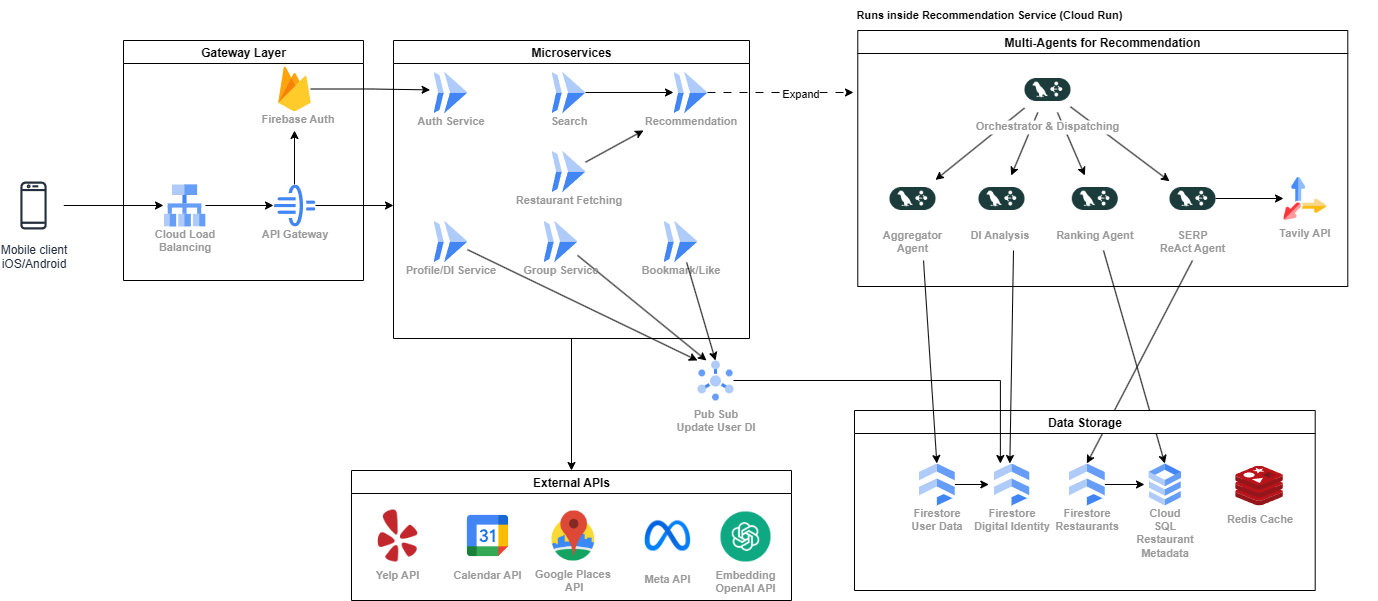
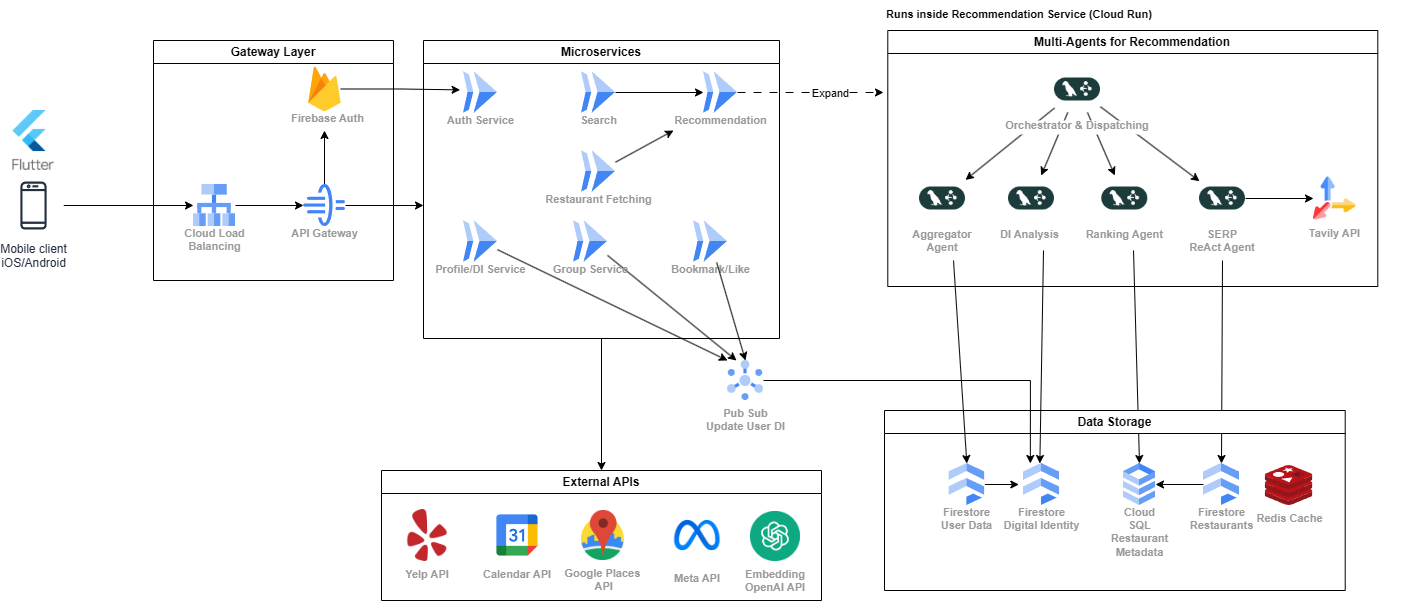
add 16-20 adr and update architecture diagram

diff --git a/architecture/adrs/adr-016_replacing_google_places_nearby_search.md b/architecture/adrs/adr-016_replacing_google_places_nearby_search.md
@@ -1,0 +1,16 @@
+# ADR 016: Replacing Google Places Nearby Search with Kaggle Dataset Query
+
+## Context
+Google Places API’s Nearby Search endpoint provides extensive restaurant data but is not optimized for our needs. It is costly at scale, provides limited filtering for dine-in vs. fast-food restaurants, and introduces latency. Since our app focuses on curated dine-in recommendations rather than general discovery, Places API returns too much noise (e.g., chains, coffee shops, fast food).
+
+## Decision
+Use our pre-curated **Kaggle dataset of Toronto restaurants** as the primary source for restaurant retrieval and exploration. This dataset is cleaned, structured, and suitable for filtering within our Firestore database.
+
+## Status
+Accepted — 2025-10-14
+
+## Consequences
+- **Reduced Costs:** Eliminates API charges for bulk queries.  
+- **Faster Querying:** Local database queries are faster than remote API calls.  
+- **Less Data Noise:** Improves recommendation quality by removing irrelevant categories.  
+- **Tradeoffs:** Dataset may lack real-time data or reviews compared to Google’s API.

diff --git a/architecture/adrs/adr-018_agent_search.md b/architecture/adrs/adr-018_agent_search.md
@@ -1,0 +1,19 @@
+# ADR 018: Using Agent-Based Search Instead of Semantic Search
+
+## Context
+We evaluated two methods for implementing restaurant search:
+- **Semantic search (vector similarity):** Fast and scalable but limited in interpretability and query customization.  
+- **Agent-based fuzzy search (chosen):** Uses an LLM agent to interpret user intent and map fuzzy, natural-language queries to dataset fields.
+
+Given our dataset size (<5k) and early-stage MVP, runtime is acceptable, and interpretability is higher with an agent-based approach.
+
+## Decision
+Adopt an **agent-driven fuzzy search** system to process natural-language queries and retrieve relevant restaurants dynamically from our dataset.
+
+## Status
+Accepted — 2025-10-14
+
+## Consequences
+- **Enhanced Query Flexibility:** Handles ambiguous or multi-factor queries (“quiet Italian spots good for dates”).  
+- **Higher Interpretability:** Easier to debug and refine than dense embeddings.  
+- **Tradeoffs:** Slightly slower response time; not ideal for large-scale retrieval.

diff --git a/architecture/adrs/adr-019_multi-gcp-projects.md b/architecture/adrs/adr-019_multi-gcp-projects.md
@@ -1,0 +1,15 @@
+# ADR 019: Multi-Project Setup for GCP Free Tier Utilization
+
+## Context
+Our backend currently spans multiple GCP organizations and projects (Cloud Run, Firestore, Artifact Registry). This setup was chosen to leverage **free tier credits** and minimize costs during early development. However, maintaining multiple projects adds management complexity, fragmented IAM permissions, and deployment friction.
+
+## Decision
+Continue using multiple GCP projects temporarily for cost efficiency. In parallel, evaluate a future **migration strategy** or automation layer to centralize resources under a single billing account once cost optimization is less critical.
+
+## Status
+Accepted — 2025-10-14
+
+## Consequences
+- **Cost Savings:** Free-tier usage across multiple projects delays expenses.  
+- **Operational Overhead:** Harder to manage service accounts, permissions, and environment variables.  
+- **Future Migration Needed:** Will require consolidation and cleanup before scaling production.

diff --git a/architecture/adrs/adr-020_selective_restaurant_data_populating.md b/architecture/adrs/adr-020_selective_restaurant_data_populating.md
@@ -1,0 +1,16 @@
+# ADR 020: Selective Google Places API Calls with Firebase Caching
+
+## Context
+Google Places API costs increase rapidly beyond 5,000 calls per month, making it impractical for mass data ingestion. However, some fields (e.g., photos, live status, summaries) remain valuable for specific restaurants queried by users.
+
+## Decision
+Limit Places API usage to **on-demand lookups** for restaurants fetched from our Kaggle/Firestore dataset. Cache the enriched metadata (photos, reviews, summaries) in Firebase for reuse. This hybrid approach balances freshness with cost efficiency.
+
+## Status
+Accepted — 2025-10-14
+
+## Consequences
+- **Cost Control:** Reduces Places API usage by >80%.  
+- **Offline Resilience:** Cached data ensures continued service when API is unavailable.  
+- **Improved Latency:** Avoids redundant external calls.  
+- **Tradeoffs:** Cached data may become stale; requires periodic refresh or backup DB outside Google ecosystem.

diff --git a/architecture/adrs/adr-017_restricting_dataset_to_toronto_only.md b/architecture/adrs/adr-017_restricting_dataset_to_toronto_only.md
@@ -1,0 +1,15 @@
+# ADR 017: Restricting Dataset to Toronto Restaurants Only
+
+## Context
+The Kaggle dataset initially included restaurants across the GTA (~10,000 entries). Many entries were outside our target launch city and contained inconsistent metadata (missing photos, cuisine tags, or location info).
+
+## Decision
+Filter and retain only **Toronto-based restaurants**, reducing the dataset from ~10,000 to fewer than 5,000 entries. Implement a flagging system for missing or low-quality metadata (e.g., missing rating, category, or address) to exclude or enrich later.
+
+## Status
+Accepted — 2025-10-14
+
+## Consequences
+- **Improved Data Quality:** Fewer but cleaner entries for recommendations.  
+- **Simplified Launch Scope:** Easier to validate MVP performance within a single city.  
+- **Scalability Challenge:** Future city expansions will require similar cleaning workflows.
